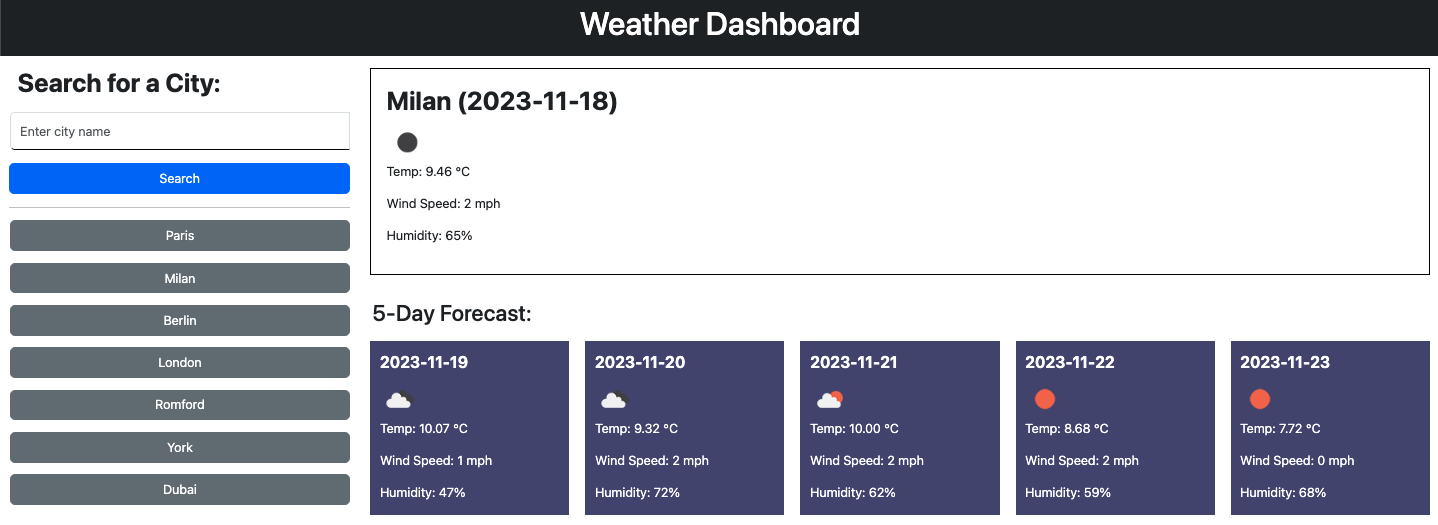
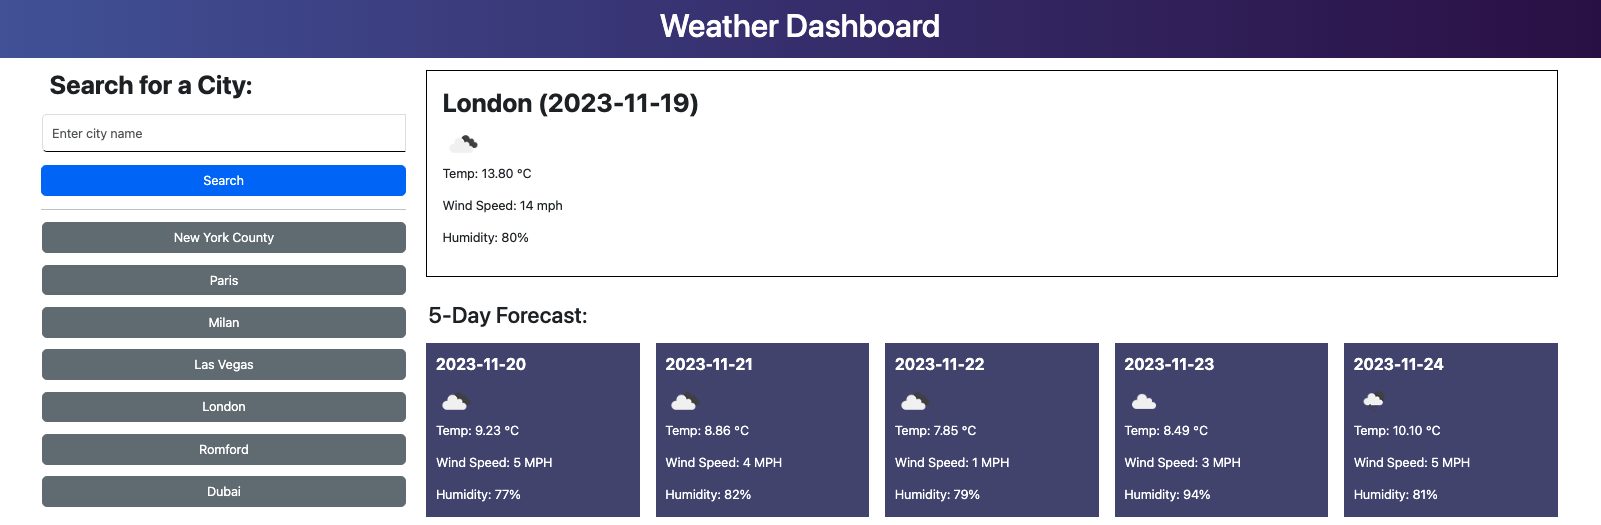
update readme

Changed region(s): [[0.0, 0.0, 1.0, 1.0]]

diff --git a/README.md b/README.md
@@ -1,2 +1,25 @@
-# weather-dashboard
-Displays the current weather based on the user's input, using the OpenWeather API
+# Weather Dashboard
+
+A weather application allows users to search for a city, displaying its current weather at the top and the forecasted weather for the next 5 days below. Each search generates a corresponding button. Clicking a button retrieves the latest data for that city.
+
+## Application Appearance
+
+![Weather App](./assets/images/weather-application.png)
+
+View project [here](https://leannecodes.github.io/weather-dashboard/)
+
+## Usage
+
+- Clear local storage before using, as this application may take data keys from another application and create buttons for it.
+
+## Credits
+
+- OpenWeatherMap for the API and guides
+- DayJs to display the current date
+- Chaining multiple .then() from [here](https://developer.mozilla.org/en-US/docs/Web/JavaScript/Guide/Using_promises)
+- Using DOMContentLoaded to show the recent weather data if there is one in local storage [here](https://developer.mozilla.org/en-US/docs/Web/API/Document/DOMContentLoaded_event)
+- Targeting a specific value from the DOM [here](https://developer.mozilla.org/en-US/docs/Web/API/Element/querySelector)
+- Syntax for the forEach method in parsing through local storage keys [here](https://developer.mozilla.org/en-US/docs/Web/API/Storage/key)
+- Capitalise the first letter of each word for the search input [here](https://stackoverflow.com/questions/53906694/how-to-capitalize-the-first-letter-of-each-word-in-an-array-using-array-map-wi)
+- Colour gradient for the title [here](https://mycolor.space/gradient?ori=to+right&hex=%234A5BA4&hex2=%232C0D50&sub=1)
+
